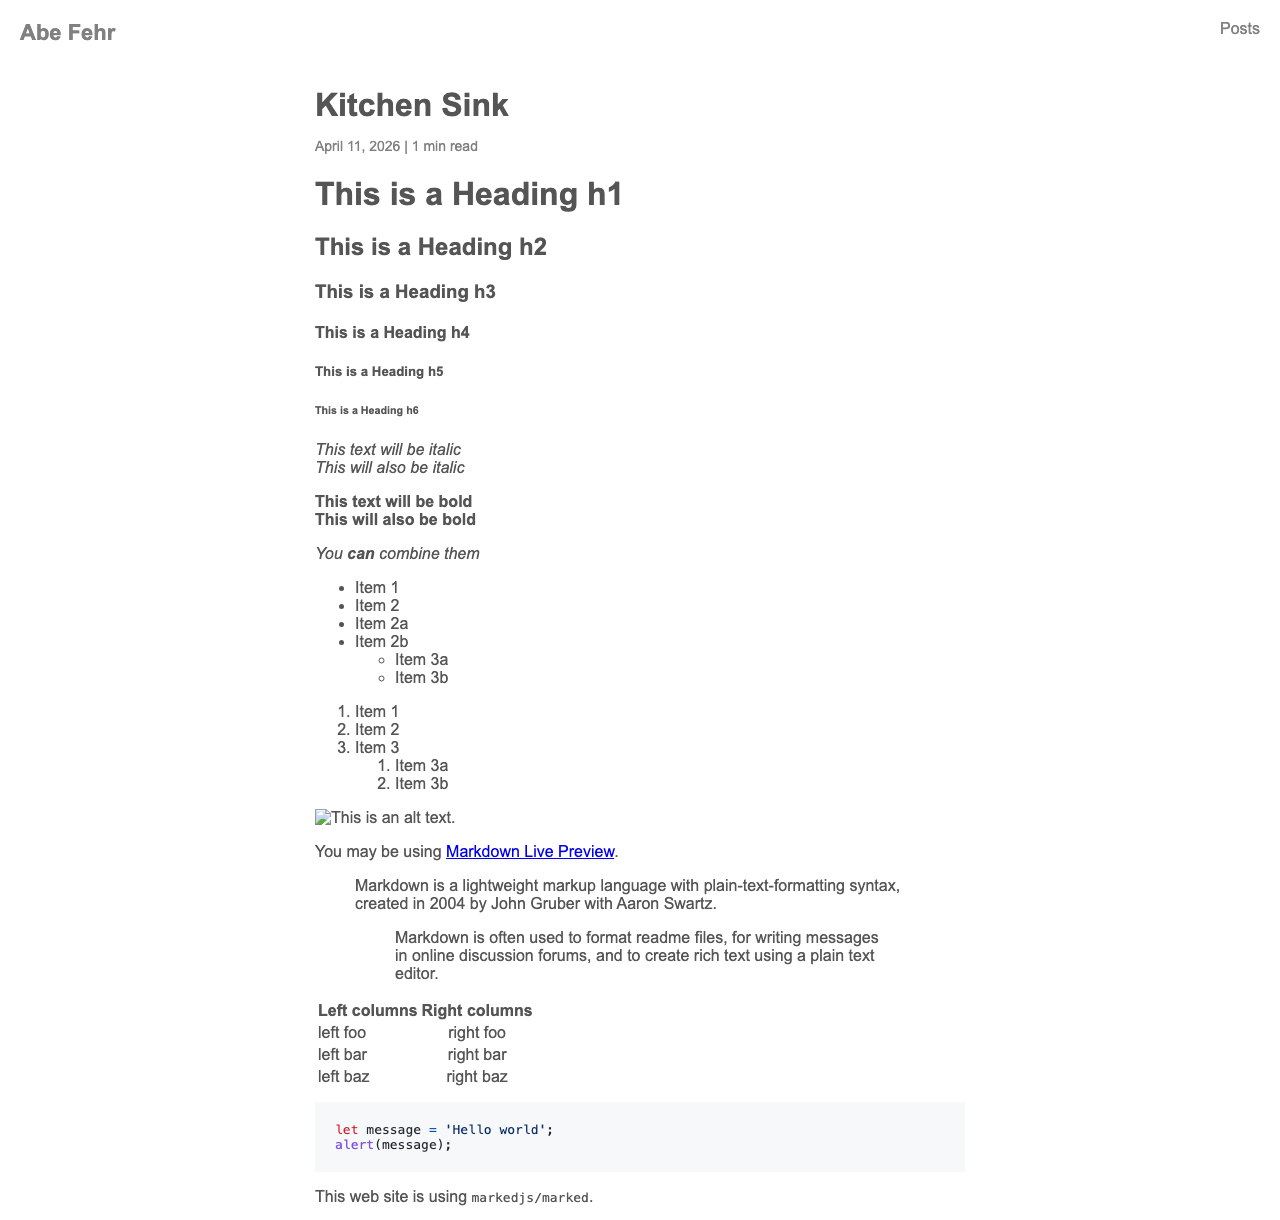
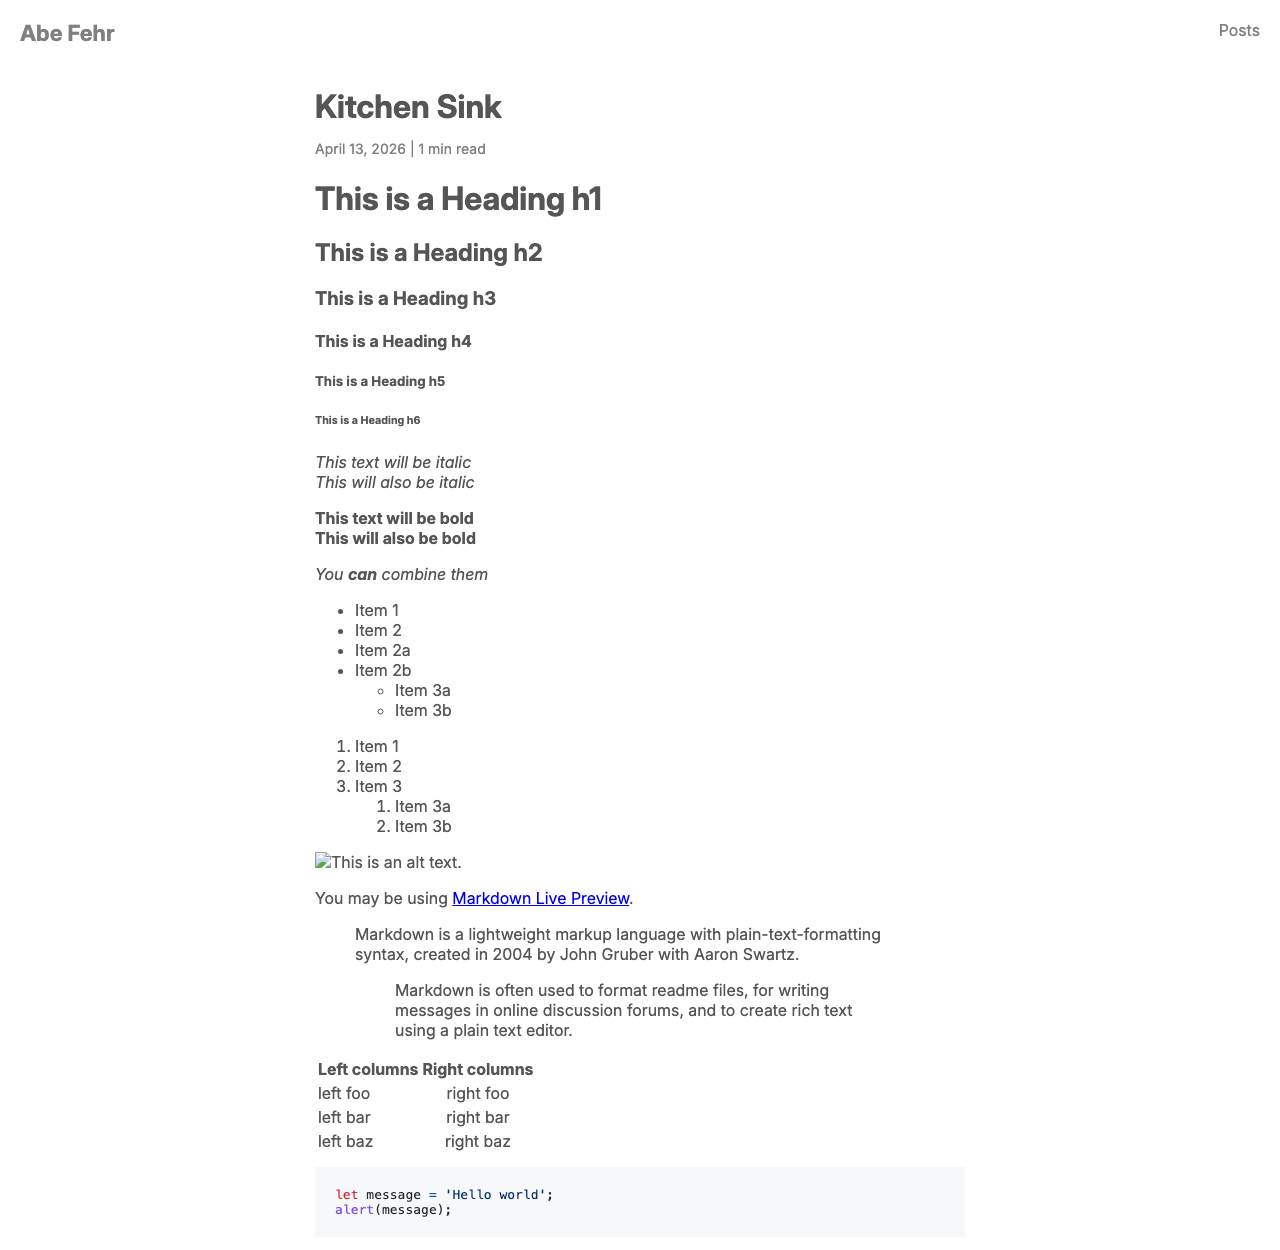
Add a basic dark mode

Changed region(s): [[0.25, 0.0623, 0.6875, 0.9967]]

diff --git a/_layouts/default.html b/_layouts/default.html
@@ -12,29 +12,34 @@
       h1 {
         font-size: 60px;
         font-weight: 700;
-        color: #555;
+        color: light-dark(#555, #ccc);
       }
 
       h1 span {
         font-weight: 500;
-        color: gray;
+        color: light-dark(gray, #999);
         font-size: 17px;
         display: block;
       }
 
       p {
-        color: #666;
+        color: light-dark(#666, #999);
         font-size: 18px;
         line-height: 1.5;
       }
 
       a {
-        color: black;
+        color: light-dark(black, white);
+        text-decoration: none;
         font-weight: 450;
       }
 
+      a:hover {
+        text-decoration: underline;
+      }
+
       .socials-label {
-        color: gray;
+        color: light-dark(gray, #999);
       }
 
       .social-link {
@@ -57,6 +62,7 @@
 
       .social-link.github {
         background-color: lightgray;
+        color: black;
       }
     </style>
     {% include analytics.html %}

diff --git a/_layouts/template.html b/_layouts/template.html
@@ -4,10 +4,9 @@
     <meta charset="utf-8" />
     <meta name="viewport" content="width=device-width, initial-scale=1" />
     <title>{{ page.title }}</title>
-    <link
-      href="https://fonts.googleapis.com/css?family=Signika:400,700|Satisfy"
-      rel="stylesheet"
-    />
+    <link rel="preconnect" href="https://fonts.googleapis.com">
+    <link rel="preconnect" href="https://fonts.gstatic.com" crossorigin>
+    <link href="https://fonts.googleapis.com/css2?family=Inter:ital,opsz,wght@0,14..32,100..900;1,14..32,100..900&display=swap" rel="stylesheet">
     {% include common_styles.html %}
     {% include analytics.html %}
   </head>

diff --git a/_layouts/post.html b/_layouts/post.html
@@ -4,10 +4,9 @@
     <meta charset="utf-8" />
     <meta name="viewport" content="width=device-width, initial-scale=1" />
     <title>{{ page.title }}</title>
-    <link
-      href="https://fonts.googleapis.com/css?family=Signika:400,700|Satisfy"
-      rel="stylesheet"
-    />
+    <link rel="preconnect" href="https://fonts.googleapis.com">
+    <link rel="preconnect" href="https://fonts.gstatic.com" crossorigin>
+    <link href="https://fonts.googleapis.com/css2?family=Inter:ital,opsz,wght@0,14..32,100..900;1,14..32,100..900&display=swap" rel="stylesheet">
     {% include common_styles.html %}
     <style>
     #scroll-progress {

diff --git a/_includes/common_styles.html b/_includes/common_styles.html
@@ -1,6 +1,11 @@
 <style>
   :root {
-    --black: #555;
+    color-scheme: light dark;
+    --black: light-dark(#555, #777);
+  }
+
+  body {
+    background-color: light-dark(#fff, #000);
   }
 
   html {
@@ -53,7 +58,7 @@
 
   header a {
     text-decoration: none;
-    color: gray;
+    color: light-dark(gray, #999);
   }
 
   header nav a:hover {
@@ -68,7 +73,7 @@
   }
 
   header > a:hover {
-    color: black;
+    color: light-dark(black, white);
   }
 
   nav {

diff --git a/TODO.md b/TODO.md
@@ -1,19 +1,17 @@
 todo
 - style the inline code blocks in blog posts
 - come up with something for my favicon
-- add some kind of bio to github / README
 
 home page re-do
 - requirements
   - make it cohesive with the blog
   - clean, modern design
-  - blog post list on main page maybe
   - something unique
     - I considered an SVG drawing of myself
     - interactive simulation background type of thing
       - bebas neue font could be cute
       - blackletter/gothic could be interesting
-      - frederika the great
+      - fredericka the great
       - cabin sketch
       - londrina shadow/sketch
       - freehand
@@ -56,7 +54,8 @@ other ideas:
 - newsletter (kind of insane)
 - link to previous/next posts
 - brief about on blog pages, maybe in a sidebar (idk)
-- portfolio
+- something about languages
+- portfolio (or "projects")
   - not much to show anymore
 
 blog posts I like:
